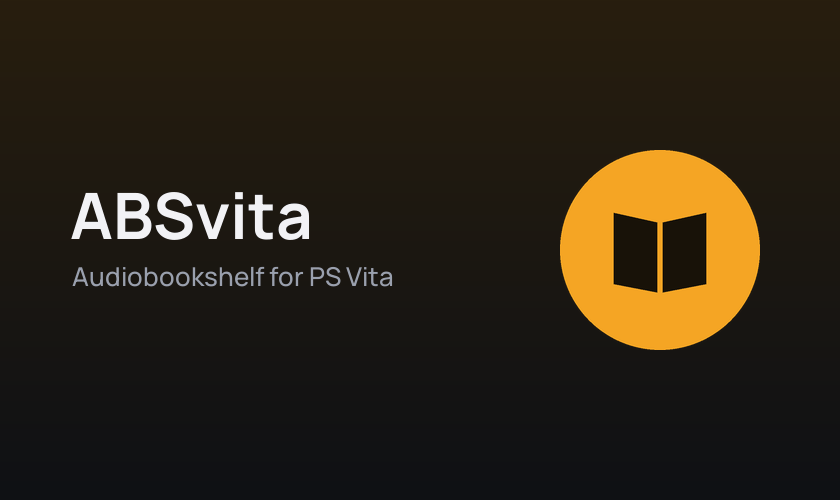
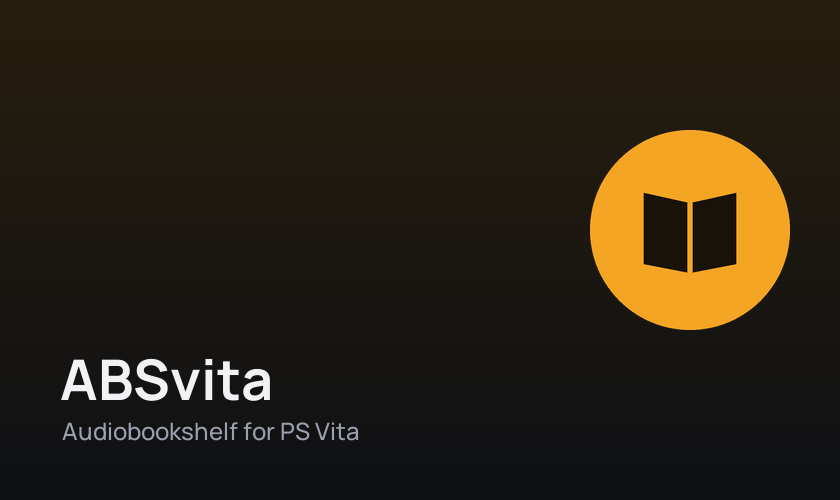
Added background playback support with BGM port, suspend/wake handling, and app lifecycle events for PS Vita

diff --git a/src/vita/sys.c b/src/vita/sys.c
@@ -1,8 +1,10 @@
 #include "sys.h"
 
+#include <psp2/appmgr.h>
 #include <psp2/apputil.h>
 #include <psp2/common_dialog.h>
 #include <psp2/kernel/processmgr.h>
+#include <psp2/kernel/threadmgr.h>
 #include <psp2/net/net.h>
 #include <psp2/net/netctl.h>
 #include <psp2/power.h>
@@ -15,6 +17,37 @@
 static bool g_cross = true, g_screen = true;
 static int g_lang = SCE_SYSTEM_PARAM_LANG_ENGLISH_US;
 static void *g_net_mem;
+static volatile bool g_awake, g_fg = true;
+static volatile unsigned g_last_active; /* seconds; 32 bits so the tick thread never reads it torn */
+
+/* ATTRIBUTE 0x80000 turns off system suspend, so standby when idle ourselves */
+#define IDLE_SUSPEND_S (10 * 60)
+
+static unsigned now_s(void) { return (unsigned)(sceKernelGetProcessTimeWide() / 1000000); }
+
+static int power_cb(int id, int count, int info, void *common) {
+    (void)id; (void)count; (void)common;
+    dbg("power event %08x", (unsigned)info);
+    return 0;
+}
+
+/* Ticks from its own thread: the frame loop may stall while the display is off. */
+static int tick_thread(SceSize args, void *argp) {
+    (void)args; (void)argp;
+    SceUID cb = sceKernelCreateCallback("power_cb", 0, power_cb, NULL);
+    if (cb >= 0) scePowerRegisterCallback(cb);
+    for (;;) {
+        if (g_awake) {
+            sceKernelPowerTick(SCE_KERNEL_POWER_TICK_DISABLE_AUTO_SUSPEND);
+        } else if (now_s() - g_last_active > IDLE_SUSPEND_S) {
+            dbg("idle: suspend");
+            g_last_active = now_s();
+            scePowerRequestSuspend();
+        }
+        sceKernelDelayThreadCB(10 * 1000 * 1000);
+    }
+    return 0;
+}
 
 int sys_init(void) {
     /* headroom for decoding and drawing */
@@ -48,10 +81,18 @@ int sys_init(void) {
     if (r < 0 && r != (int)SCE_NET_ERROR_EBUSY) dbg("sceNetInit %08x", (unsigned)r);
     r = sceNetCtlInit();
     if (r < 0) dbg("sceNetCtlInit %08x", (unsigned)r);
+
+    /* the BGM port keeps our audio running with the display off (as ElevenMPV does) */
+    r = sceAppMgrAcquireBgmPort();
+    if (r < 0) dbg("sceAppMgrAcquireBgmPort %08x", (unsigned)r);
+    g_last_active = now_s();
+    SceUID th = sceKernelCreateThread("power_tick", tick_thread, 0x10000100, 0x4000, 0, 0, NULL);
+    if (th >= 0) sceKernelStartThread(th, 0, NULL);
     return 0;
 }
 
 void sys_exit(void) {
+    sceAppMgrReleaseBgmPort();
     sceNetCtlTerm();
     sceNetTerm();
     sceSysmoduleUnloadModule(SCE_SYSMODULE_NET);
@@ -59,8 +100,57 @@ void sys_exit(void) {
     sceAppUtilShutdown();
 }
 
-void sys_tick(bool playing) {
-    if (playing) sceKernelPowerTick(SCE_KERNEL_POWER_TICK_DISABLE_AUTO_SUSPEND);
+/* SceAppMgr's application event queue (missing from the SDK in our image) */
+typedef struct { int event; SceUID app_id; char param[56]; } AppMgrEvent;
+int sceAppMgrReceiveEventNum(int *num);
+int sceAppMgrReceiveEvent(AppMgrEvent *ev);
+
+static volatile bool g_quit;
+
+/* ON_ACTIVATE, ON_DEACTIVATE and ON_RESUME arrive on both queues; older headers lack the names */
+static void on_event(int e) {
+    /* closing from LiveArea: with ATTRIBUTE 0x8 the system waits for us to go,
+     * and ignoring it leaves the shell hung */
+    if (e == 0x20000001) g_quit = true;
+    if (e == 0x10000002) g_fg = false;
+    if (e == 0x10000001 || e == 0x10000003) {
+        g_fg = true;
+        g_screen = true;
+    }
+}
+
+static void poll_events(void) {
+    /* leaving for LiveArea or another app, and the PS button or a wake from
+     * standby turning the display back on behind our back */
+    int n = 0;
+    if (sceAppMgrReceiveEventNum(&n) == 0) {
+        while (n-- > 0) {
+            AppMgrEvent ev;
+            if (sceAppMgrReceiveEvent(&ev) < 0) break;
+            dbg("appmgr event %08x", (unsigned)ev.event);
+            on_event(ev.event);
+        }
+    }
+    SceAppMgrAppState st;
+    memset(&st, 0, sizeof st);
+    if (_sceAppMgrGetAppState(&st, sizeof st, 0x03570011) < 0) return;
+    while (st.systemEventNum-- > 0) {
+        SceAppMgrSystemEvent ev;
+        if (sceAppMgrReceiveSystemEvent(&ev) < 0) break;
+        dbg("system event %08x", (unsigned)ev.systemEvent);
+        on_event(ev.systemEvent);
+    }
+}
+
+void sys_tick(bool busy, bool input) {
+    g_awake = busy;
+    if (busy || input) g_last_active = now_s();
+    /* events are IPC to the shell: ten polls a second is plenty */
+    static SceUInt64 next;
+    SceUInt64 now = sceKernelGetProcessTimeWide();
+    if (now < next) return;
+    next = now + 100 * 1000;
+    poll_events();
 }
 
 bool sys_enter_is_cross(void) { return g_cross; }
@@ -80,5 +170,7 @@ void sys_screen(bool on) {
 }
 
 bool sys_screen_on(void) { return g_screen; }
+bool sys_quit_requested(void) { return g_quit; }
+bool sys_visible(void) { return g_screen && g_fg; }
 const char *sys_model(void) { return "PS Vita"; }
 int sys_language(void) { return g_lang; }

diff --git a/src/ui/scr_player.c b/src/ui/scr_player.c
@@ -34,7 +34,6 @@ static struct {
     bool chapters;
     int ch_focus;
     Scroll ch_sc;
-    bool screen_off;
 } S;
 
 void player_screen_enter(void) {
@@ -50,11 +49,6 @@ static void open_chapters(void) {
     S.ch_focus = player_chapter_index();
     if (S.ch_focus < 0) S.ch_focus = 0;
     S.ch_sc.y = S.ch_sc.target = S.ch_focus * 52.0f - 120 > 0 ? S.ch_focus * 52.0f - 120 : 0;
-}
-
-static void screen_off(void) {
-    S.screen_off = true;
-    sys_screen(false);
 }
 
 static void do_control(int k) {
@@ -139,8 +133,8 @@ static void on_tap_chapter(int i, int b) {
 }
 
 void player_screen_update(const Input *in, float dt) {
-    if (S.screen_off) {
-        if (in->any || in->touching) { S.screen_off = false; sys_screen(true); }
+    if (!sys_screen_on()) {
+        if (in->any || in->touching) sys_screen(true);
         return;
     }
     if (player_phase() == PL_FAILED || (!player_book() && player_phase() != PL_OPENING)) {
@@ -167,7 +161,7 @@ void player_screen_update(const Input *in, float dt) {
     if (in->repeat & B_L) player_skip(-g_cfg.skip_back);
     if (in->repeat & B_R) player_skip(g_cfg.skip_fwd);
     if (in->down & B_TRIANGLE) open_chapters();
-    if (in->down & B_SELECT) screen_off();
+    if (in->down & B_SELECT) sys_screen(false);
     int n = S.row == 0 ? 5 : P_COUNT;
     if (in->repeat & B_LEFT && S.col[S.row] > 0) S.col[S.row]--;
     if (in->repeat & B_RIGHT && S.col[S.row] + 1 < n) S.col[S.row]++;

diff --git a/src/vita/main.c b/src/vita/main.c
@@ -95,7 +95,7 @@ int main(void) {
     app_init();
 
     uint64_t last = sceKernelGetProcessTimeWide();
-    for (;;) {
+    while (!sys_quit_requested()) {
         uint64_t now = sceKernelGetProcessTimeWide();
         float dt = (now - last) / 1e6f;
         last = now;
@@ -109,16 +109,24 @@ int main(void) {
         } else {
             app_update(&in, dt);
         }
+        bool busy = player_playing() || dl_busy(); /* stay awake while listening or downloading */
+        if (!sys_visible()) {
+            /* nothing to see: skip drawing and let the CPU idle */
+            sys_tick(busy, in.any || in.touching);
+            sceKernelDelayThread(50 * 1000);
+            continue;
+        }
         vita2d_start_drawing();
         vita2d_clear_screen();
         app_draw();
         vita2d_end_drawing();
         vita2d_common_dialog_update();
         vita2d_swap_buffers();
-        sys_tick(player_playing() || dl_busy()); /* stay awake while listening or downloading */
+        sys_tick(busy, in.any || in.touching);
     }
 
-    /* not reached: the system ends the app */
+    /* the system asked us to close: save the position and go */
+    dbg("quit requested");
     player_exit();
     engine_exit();
     vita2d_fini();

diff --git a/src/vita/sys.h b/src/vita/sys.h
@@ -5,14 +5,17 @@
 
 int sys_init(void);          /* call first */
 void sys_exit(void);
-/* once per frame: keeps the console awake while audio plays */
-void sys_tick(bool playing);
+/* once per frame: keeps the console awake while busy (playing, downloading),
+ * suspends after a long idle, follows the app moving to and from the background */
+void sys_tick(bool busy, bool input);
 bool sys_enter_is_cross(void);   /* system setting: confirm with X (else O) */
 int sys_battery(void);           /* percent */
 bool sys_charging(void);
 bool sys_wifi_connected(void);
 void sys_screen(bool on);        /* turn the display off/on (audio continues) */
 bool sys_screen_on(void);
+bool sys_quit_requested(void);   /* the system asked the app to close */
+bool sys_visible(void);          /* display on and the app in front: worth drawing */
 const char *sys_model(void);
 int sys_language(void);
 

diff --git a/tools/make_art.py b/tools/make_art.py
@@ -51,11 +51,12 @@ def bg():
     bd.ellipse([0, 0, 200 * S - 1, 200 * S - 1], fill=AMBER)
     book(bd, 100 * S, 102 * S, 70 * S, INK)
     big = big.resize((200, 200), Image.LANCZOS)
-    img.paste(big, (W - 280, 150), big)
-    f1 = ImageFont.truetype(FONT, 64)
-    f2 = ImageFont.truetype(FONT_REG, 26)
-    d.text((70, 170), "ABSvita", font=f1, fill=WHITE)
-    d.text((72, 258), "Audiobookshelf for PS Vita", font=f2, fill=SUB)
+    img.paste(big, (W - 250, 130), big)
+    # the system draws the start gate over x 280..560, y 140..300: keep text below it
+    f1 = ImageFont.truetype(FONT, 56)
+    f2 = ImageFont.truetype(FONT_REG, 24)
+    d.text((60, 340), "ABSvita", font=f1, fill=WHITE)
+    d.text((62, 414), "Audiobookshelf for PS Vita", font=f2, fill=SUB)
     return img
 
 
